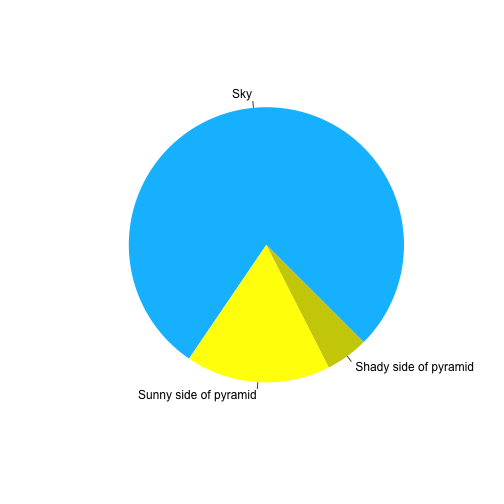
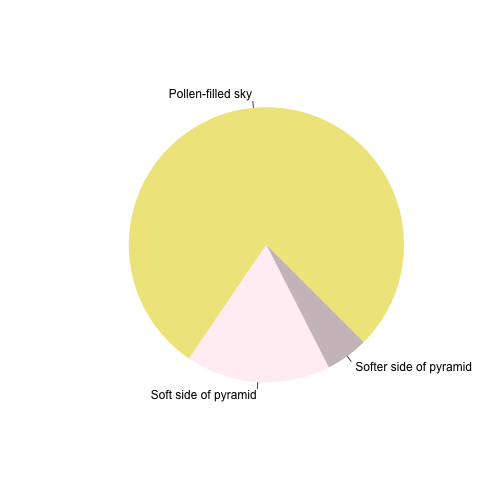
site deploy
Auto-generated via {sandpaper}
Source  : 0def0089dcde66e31cd0c346ccccb526e2cc0c3d
Branch  : md-outputs
Author  : GitHub Actions <actions@github.com>
Time    : 2021-09-21 00:04:17 +0000
Message : markdown source builds

Auto-generated via {sandpaper}
Source  : d7e84fdc2355e068b185aeae0d654a2f488a31b8
Branch  : main
Author  : Zhian N. Kamvar <zkamvar@gmail.com>
Time    : 2021-09-21 00:02:38 +0000
Message : Merge pull request #60 from carpentries/soft-pyramid

update pyramid to look softer

Changed region(s): [[0.2381, 0.1786, 0.8036, 0.7738], [0.7143, 0.7143, 0.9524, 0.744], [0.2679, 0.7738, 0.3571, 0.8036]]

diff --git a/example.html b/example.html
@@ -8,7 +8,7 @@
 <meta http-equiv="X-UA-Compatible" content="IE=edge">
 <meta name="viewport" content="width=device-width, initial-scale=1.0">
 
-<meta http-equiv="last-modified" content="2021-09-16 23:30:33 +0000">
+<meta http-equiv="last-modified" content="2021-09-21 00:04:17 +0000">
 
 
 
@@ -299,13 +299,13 @@
 <h2>Figures</h2>
 <p>You can also include figures:</p>
 <div class="sourceCode" id="cb6"><pre class="sourceCode r"><code class="sourceCode r"><span id="cb6-1"><a href="#cb6-1" aria-hidden="true" tabindex="-1"></a><span class="fu">pie</span>(</span>
-<span id="cb6-2"><a href="#cb6-2" aria-hidden="true" tabindex="-1"></a>  <span class="fu">c</span>(<span class="at">Sky =</span> <span class="dv">78</span>, <span class="st">&quot;Sunny side of pyramid&quot;</span> <span class="ot">=</span> <span class="dv">17</span>, <span class="st">&quot;Shady side of pyramid&quot;</span> <span class="ot">=</span> <span class="dv">5</span>), </span>
+<span id="cb6-2"><a href="#cb6-2" aria-hidden="true" tabindex="-1"></a>  <span class="fu">c</span>(<span class="st">&quot;Pollen-filled sky&quot;</span> <span class="ot">=</span> <span class="dv">78</span>, <span class="st">&quot;Soft side of pyramid&quot;</span> <span class="ot">=</span> <span class="dv">17</span>, <span class="st">&quot;Softer side of pyramid&quot;</span> <span class="ot">=</span> <span class="dv">5</span>), </span>
 <span id="cb6-3"><a href="#cb6-3" aria-hidden="true" tabindex="-1"></a>  <span class="at">init.angle =</span> <span class="dv">315</span>, </span>
-<span id="cb6-4"><a href="#cb6-4" aria-hidden="true" tabindex="-1"></a>  <span class="at">col =</span> <span class="fu">c</span>(<span class="st">&quot;deepskyblue&quot;</span>, <span class="st">&quot;yellow&quot;</span>, <span class="st">&quot;yellow3&quot;</span>),</span>
+<span id="cb6-4"><a href="#cb6-4" aria-hidden="true" tabindex="-1"></a>  <span class="at">col =</span> <span class="fu">c</span>(<span class="st">&quot;khaki&quot;</span>, <span class="st">&quot;lavenderblush&quot;</span>, <span class="st">&quot;lavenderblush3&quot;</span>),</span>
 <span id="cb6-5"><a href="#cb6-5" aria-hidden="true" tabindex="-1"></a>  <span class="at">border =</span> <span class="cn">FALSE</span></span>
 <span id="cb6-6"><a href="#cb6-6" aria-hidden="true" tabindex="-1"></a>)</span></code></pre></div>
 <div class="figure" style="text-align: center">
-<img src="fig/example-rendered-pyramid-1.png" alt="pie chart illusion of a pyramid"  />
+<img src="fig/example-rendered-pyramid-1.png" alt="pie chart illusion of a pyramid with a lavendar sky"  />
 <p class="caption">
 Sun arise each and every morning
 </p>
@@ -382,7 +382,7 @@ Sun arise each and every morning
   <div class="row">
     <div class="col-md-12" align="center">
       Built with <a href="https://github.com/carpentries/sandpaper">sandpaper (0.0.0.9050)</a>,
-      <a href="https://github.com/carpentries/pegboard">pegboard (0.0.0.9021)</a>,
+      <a href="https://github.com/carpentries/pegboard">pegboard (0.0.0.9022)</a>,
       and <a href="https://github.com/carpentries/varnish">varnish (0.0.0.9006)</a>.
     </div>
   </div>

diff --git a/introduction.html b/introduction.html
@@ -8,7 +8,7 @@
 <meta http-equiv="X-UA-Compatible" content="IE=edge">
 <meta name="viewport" content="width=device-width, initial-scale=1.0">
 
-<meta http-equiv="last-modified" content="2021-09-16 23:30:33 +0000">
+<meta http-equiv="last-modified" content="2021-09-21 00:04:17 +0000">
 
 
 
@@ -450,7 +450,7 @@ To remove this warning, define your schedule in `config.yaml` or use `set_episod
   <div class="row">
     <div class="col-md-12" align="center">
       Built with <a href="https://github.com/carpentries/sandpaper">sandpaper (0.0.0.9050)</a>,
-      <a href="https://github.com/carpentries/pegboard">pegboard (0.0.0.9021)</a>,
+      <a href="https://github.com/carpentries/pegboard">pegboard (0.0.0.9022)</a>,
       and <a href="https://github.com/carpentries/varnish">varnish (0.0.0.9006)</a>.
     </div>
   </div>

diff --git a/episodes.html b/episodes.html
@@ -8,7 +8,7 @@
 <meta http-equiv="X-UA-Compatible" content="IE=edge">
 <meta name="viewport" content="width=device-width, initial-scale=1.0">
 
-<meta http-equiv="last-modified" content="2021-09-16 23:30:33 +0000">
+<meta http-equiv="last-modified" content="2021-09-21 00:04:17 +0000">
 
 
 
@@ -560,7 +560,7 @@ Sun arise each and every morning
   <div class="row">
     <div class="col-md-12" align="center">
       Built with <a href="https://github.com/carpentries/sandpaper">sandpaper (0.0.0.9050)</a>,
-      <a href="https://github.com/carpentries/pegboard">pegboard (0.0.0.9021)</a>,
+      <a href="https://github.com/carpentries/pegboard">pegboard (0.0.0.9022)</a>,
       and <a href="https://github.com/carpentries/varnish">varnish (0.0.0.9006)</a>.
     </div>
   </div>

diff --git a/github-pat.html b/github-pat.html
@@ -8,7 +8,7 @@
 <meta http-equiv="X-UA-Compatible" content="IE=edge">
 <meta name="viewport" content="width=device-width, initial-scale=1.0">
 
-<meta http-equiv="last-modified" content="2021-09-16 23:30:33 +0000">
+<meta http-equiv="last-modified" content="2021-09-21 00:04:17 +0000">
 
 
 
@@ -387,7 +387,7 @@ Git repo for current project
   <div class="row">
     <div class="col-md-12" align="center">
       Built with <a href="https://github.com/carpentries/sandpaper">sandpaper (0.0.0.9050)</a>,
-      <a href="https://github.com/carpentries/pegboard">pegboard (0.0.0.9021)</a>,
+      <a href="https://github.com/carpentries/pegboard">pegboard (0.0.0.9022)</a>,
       and <a href="https://github.com/carpentries/varnish">varnish (0.0.0.9006)</a>.
     </div>
   </div>

diff --git a/setup.html b/setup.html
@@ -8,7 +8,7 @@
 <meta http-equiv="X-UA-Compatible" content="IE=edge">
 <meta name="viewport" content="width=device-width, initial-scale=1.0">
 
-<meta http-equiv="last-modified" content="2021-09-16 23:30:33 +0000">
+<meta http-equiv="last-modified" content="2021-09-21 00:04:17 +0000">
 
 
 
@@ -690,7 +690,7 @@ compilation terminated.
   <div class="row">
     <div class="col-md-12" align="center">
       Built with <a href="https://github.com/carpentries/sandpaper">sandpaper (0.0.0.9050)</a>,
-      <a href="https://github.com/carpentries/pegboard">pegboard (0.0.0.9021)</a>,
+      <a href="https://github.com/carpentries/pegboard">pegboard (0.0.0.9022)</a>,
       and <a href="https://github.com/carpentries/varnish">varnish (0.0.0.9006)</a>.
     </div>
   </div>

diff --git a/index.html b/index.html
@@ -8,7 +8,7 @@
 <meta http-equiv="X-UA-Compatible" content="IE=edge">
 <meta name="viewport" content="width=device-width, initial-scale=1.0">
 
-<meta http-equiv="last-modified" content="2021-09-16 23:30:33 +0000">
+<meta http-equiv="last-modified" content="2021-09-21 00:04:17 +0000">
 
 
 
@@ -396,7 +396,7 @@ Finish
   <div class="row">
     <div class="col-md-12" align="center">
       Built with <a href="https://github.com/carpentries/sandpaper">sandpaper (0.0.0.9050)</a>,
-      <a href="https://github.com/carpentries/pegboard">pegboard (0.0.0.9021)</a>,
+      <a href="https://github.com/carpentries/pegboard">pegboard (0.0.0.9022)</a>,
       and <a href="https://github.com/carpentries/varnish">varnish (0.0.0.9006)</a>.
     </div>
   </div>

diff --git a/CODE_OF_CONDUCT.html b/CODE_OF_CONDUCT.html
@@ -8,7 +8,7 @@
 <meta http-equiv="X-UA-Compatible" content="IE=edge">
 <meta name="viewport" content="width=device-width, initial-scale=1.0">
 
-<meta http-equiv="last-modified" content="2021-09-16 23:30:33 +0000">
+<meta http-equiv="last-modified" content="2021-09-21 00:04:17 +0000">
 
 
 
@@ -286,7 +286,7 @@
   <div class="row">
     <div class="col-md-12" align="center">
       Built with <a href="https://github.com/carpentries/sandpaper">sandpaper (0.0.0.9050)</a>,
-      <a href="https://github.com/carpentries/pegboard">pegboard (0.0.0.9021)</a>,
+      <a href="https://github.com/carpentries/pegboard">pegboard (0.0.0.9022)</a>,
       and <a href="https://github.com/carpentries/varnish">varnish (0.0.0.9006)</a>.
     </div>
   </div>

diff --git a/LICENSE.html b/LICENSE.html
@@ -8,7 +8,7 @@
 <meta http-equiv="X-UA-Compatible" content="IE=edge">
 <meta name="viewport" content="width=device-width, initial-scale=1.0">
 
-<meta http-equiv="last-modified" content="2021-09-16 23:30:33 +0000">
+<meta http-equiv="last-modified" content="2021-09-21 00:04:17 +0000">
 
 
 
@@ -316,7 +316,7 @@
   <div class="row">
     <div class="col-md-12" align="center">
       Built with <a href="https://github.com/carpentries/sandpaper">sandpaper (0.0.0.9050)</a>,
-      <a href="https://github.com/carpentries/pegboard">pegboard (0.0.0.9021)</a>,
+      <a href="https://github.com/carpentries/pegboard">pegboard (0.0.0.9022)</a>,
       and <a href="https://github.com/carpentries/varnish">varnish (0.0.0.9006)</a>.
     </div>
   </div>

diff --git a/deployment.html b/deployment.html
@@ -8,7 +8,7 @@
 <meta http-equiv="X-UA-Compatible" content="IE=edge">
 <meta name="viewport" content="width=device-width, initial-scale=1.0">
 
-<meta http-equiv="last-modified" content="2021-09-16 23:30:33 +0000">
+<meta http-equiv="last-modified" content="2021-09-21 00:04:17 +0000">
 
 
 
@@ -360,7 +360,7 @@
   <div class="row">
     <div class="col-md-12" align="center">
       Built with <a href="https://github.com/carpentries/sandpaper">sandpaper (0.0.0.9050)</a>,
-      <a href="https://github.com/carpentries/pegboard">pegboard (0.0.0.9021)</a>,
+      <a href="https://github.com/carpentries/pegboard">pegboard (0.0.0.9022)</a>,
       and <a href="https://github.com/carpentries/varnish">varnish (0.0.0.9006)</a>.
     </div>
   </div>

diff --git a/editing.html b/editing.html
@@ -8,7 +8,7 @@
 <meta http-equiv="X-UA-Compatible" content="IE=edge">
 <meta name="viewport" content="width=device-width, initial-scale=1.0">
 
-<meta http-equiv="last-modified" content="2021-09-16 23:30:33 +0000">
+<meta http-equiv="last-modified" content="2021-09-21 00:04:17 +0000">
 
 
 
@@ -477,7 +477,7 @@
   <div class="row">
     <div class="col-md-12" align="center">
       Built with <a href="https://github.com/carpentries/sandpaper">sandpaper (0.0.0.9050)</a>,
-      <a href="https://github.com/carpentries/pegboard">pegboard (0.0.0.9021)</a>,
+      <a href="https://github.com/carpentries/pegboard">pegboard (0.0.0.9022)</a>,
       and <a href="https://github.com/carpentries/varnish">varnish (0.0.0.9006)</a>.
     </div>
   </div>

diff --git a/instructor.html b/instructor.html
@@ -8,7 +8,7 @@
 <meta http-equiv="X-UA-Compatible" content="IE=edge">
 <meta name="viewport" content="width=device-width, initial-scale=1.0">
 
-<meta http-equiv="last-modified" content="2021-09-16 23:30:33 +0000">
+<meta http-equiv="last-modified" content="2021-09-21 00:04:17 +0000">
 
 
 
@@ -291,7 +291,7 @@
   <div class="row">
     <div class="col-md-12" align="center">
       Built with <a href="https://github.com/carpentries/sandpaper">sandpaper (0.0.0.9050)</a>,
-      <a href="https://github.com/carpentries/pegboard">pegboard (0.0.0.9021)</a>,
+      <a href="https://github.com/carpentries/pegboard">pegboard (0.0.0.9022)</a>,
       and <a href="https://github.com/carpentries/varnish">varnish (0.0.0.9006)</a>.
     </div>
   </div>

diff --git a/maintainer.html b/maintainer.html
@@ -8,7 +8,7 @@
 <meta http-equiv="X-UA-Compatible" content="IE=edge">
 <meta name="viewport" content="width=device-width, initial-scale=1.0">
 
-<meta http-equiv="last-modified" content="2021-09-16 23:30:33 +0000">
+<meta http-equiv="last-modified" content="2021-09-21 00:04:17 +0000">
 
 
 
@@ -309,7 +309,7 @@
   <div class="row">
     <div class="col-md-12" align="center">
       Built with <a href="https://github.com/carpentries/sandpaper">sandpaper (0.0.0.9050)</a>,
-      <a href="https://github.com/carpentries/pegboard">pegboard (0.0.0.9021)</a>,
+      <a href="https://github.com/carpentries/pegboard">pegboard (0.0.0.9022)</a>,
       and <a href="https://github.com/carpentries/varnish">varnish (0.0.0.9006)</a>.
     </div>
   </div>
